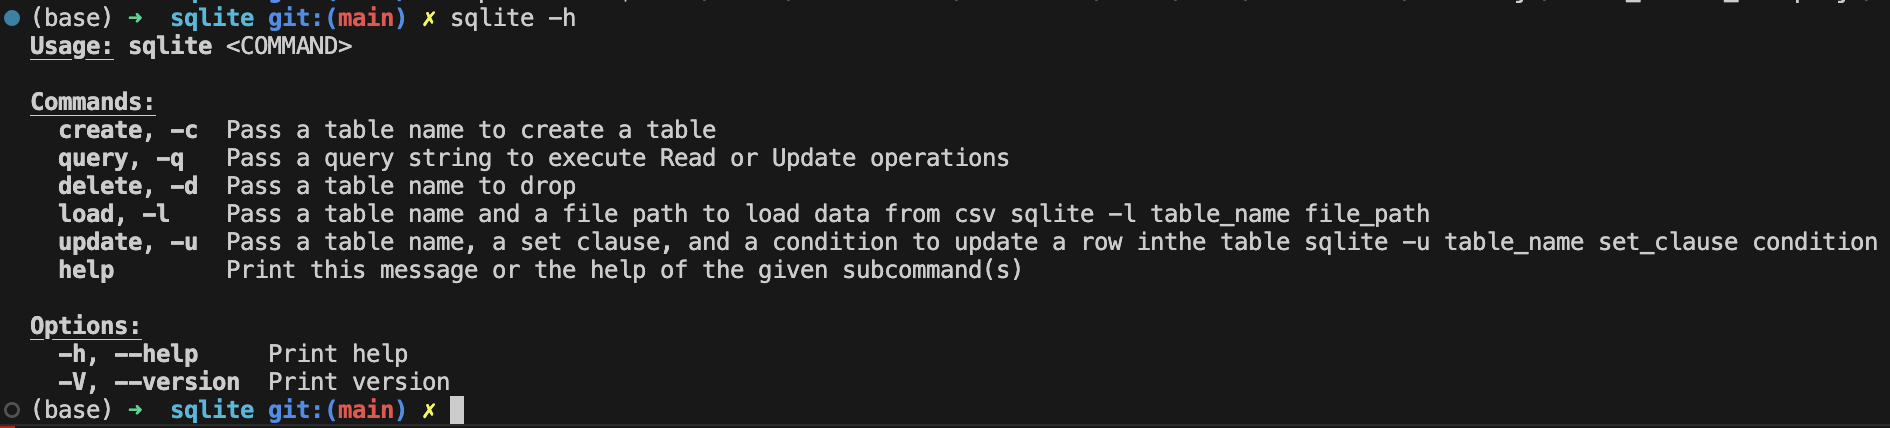
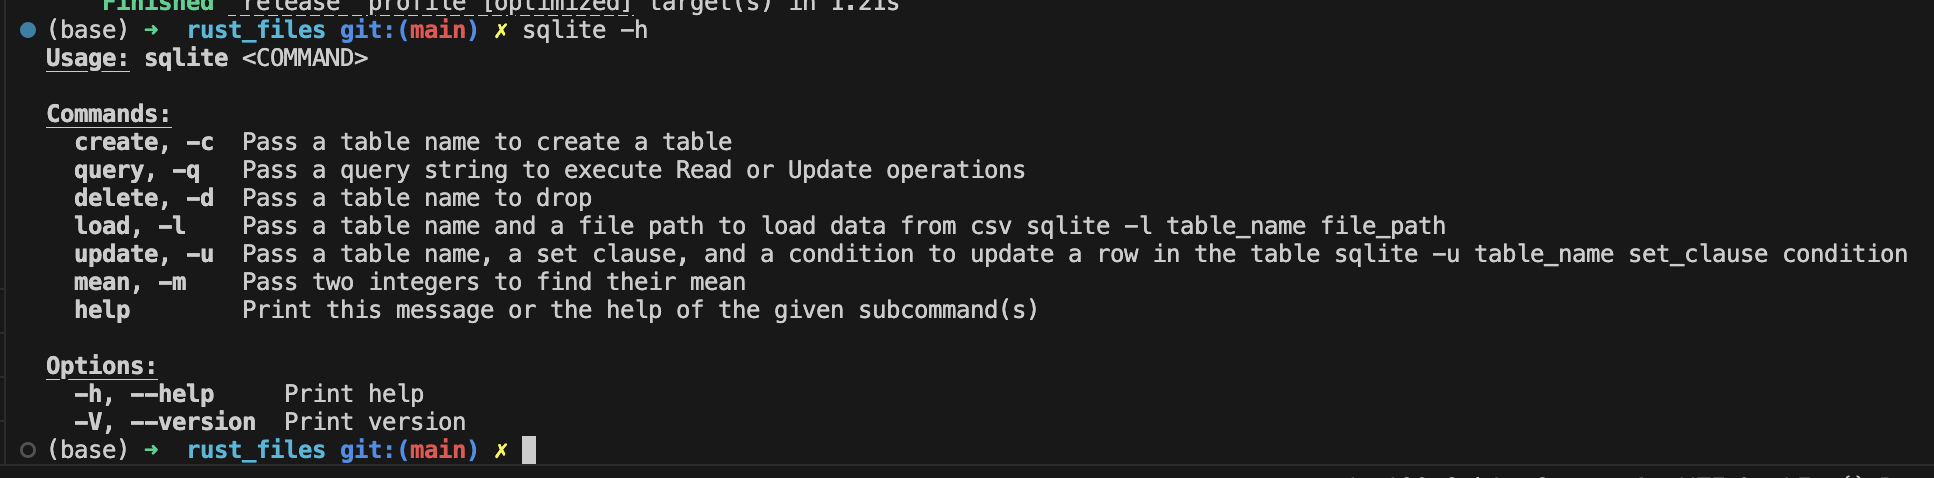
finalizing readme

Changed region(s): [[0.0, 0.2126, 0.9989, 0.6682], [0.0, 0.729, 0.281, 1.0], [0.0, 0.0, 0.4683, 0.1519]]

diff --git a/main.py b/main.py
@@ -2,7 +2,6 @@
 """
 ETL-Query script
 """
-import time
 from python_files.extract import extract_data
 from python_files.transform import transform
 from python_files.query import create, read, update, delete, query_1, query_2
@@ -19,49 +18,26 @@ payload = (2025, 15.00, 18.00, 20.00, 30.00, 50.00)
 
 # Extract
 print("Extracting data...")
-start_time = time.time()
 extract_data(url, path, folder)
-end_time = time.time()
-print(f"Extraction took {end_time - start_time:.2f} seconds.\n")
 
 # Transform and load/create
 print("Transforming data...")
-start_time = time.time()
 transform(path)
-end_time = time.time()
-print(f"Transformation took {end_time - start_time:.2f} seconds.\n")
-
 
 # CREATE
-start_time = time.time()
 create(payload, database, table)
-end_time = time.time()
-print(f"CREATE took {end_time - start_time:.2f} seconds.\n")
 
 # READ
-start_time = time.time()
 read(database, table)
-end_time = time.time()
-print(f"READ took {end_time - start_time:.2f} seconds.\n")
 
 # UPDATE
-start_time = time.time()
 update(database, table, "year", 2026, 2022)
-end_time = time.time()
-print(f"UPDATE took {end_time - start_time:.2f} seconds.\n")
 
 # DELETE
-start_time = time.time()
 delete(database, table, 2021)
-end_time = time.time()
-print(f"DELETE took {end_time - start_time:.2f} seconds.\n")
-
 
 # Query
-start_time = time.time()
 print("First query...")
 print(query_1())
 print("Second query...")
 print(query_2())
-end_time = time.time()
-print(f"QUERIES took {end_time - start_time:.2f} seconds.\n")

diff --git a/python_files/summary_stats.py b/python_files/summary_stats.py
@@ -12,6 +12,7 @@ def get_mean(x):
 x = [i for i in range(1, 1_000_000)]
 
 start = time.time()
-get_mean(x)
+mean = get_mean(x)
 end = time.time()
+print(f"The mean is: {mean}")
 print(f"Time taken for mean calculation: {10**6*(end - start)} microseconds")

diff --git a/README.md b/README.md
@@ -4,17 +4,30 @@
 
 # Individual Project 2/Mini Project 8: Rewriting a CRUD Operations Python Script in Rust
 ---
-##### The purpose of this project is to take an existing python project, convert it to Rust, and compare the speed and efficiency of both scripts. This projects demonstrates how to perform CRUD operations in both Rust and Python, using a CLI (Command Line Integration) Tool. As usual, the folder structure and project walkthrough are below - however, I've decided to show my analysis results at the top of the readme for convenience, and directions for setup and use of the CLI tools are below.  
+###### The purpose of this project is to take an existing python project, convert it to Rust, and compare the speed and efficiency of both scripts. This projects demonstrates how to perform CRUD operations in both Rust and Python, using a CLI (Command Line Integration) Tool. As usual, the folder structure and project walkthrough are below - however, I've decided to show my analysis results at the top of the readme for convenience, and directions for setup and use of the CLI tools are below.  
 ---
 ### Use of Codeium LLM for project assistance
-Use of LLM: In your README, explain how you utilized an LLM in your coding process.
+###### To help me complete the project, I utilized Codeium - which functions similar to GitHub Copilot. I found that I was lacking domain knowledge about Rust syntax, but could get a broad understanding of how the functions and project layout were structured from reading the project template. To help understand specifics, I input code segments and errors into Codeium, and asked it to explain the details to me. While I did use it to debug my code, I actually came to appreciate the way Rust structures the error messages. Any error messages that popped up explicitly stated what the problem was and how to resolve it - I found this to be a really helpful and interesting feature. I also asked it to generate tests that differed in complexity, in order to gain a better understanding of how to write the lib test functions. 
 ---
 ### Demo Video Link:
-Video Demo: A YouTube link in README.md showing a clear, concise walkthrough and demonstration of your CLI binary.
-___
-### Rust vs Python - which is faster?
 
 ___
+### Rust vs Python - which is faster?
+###### In addition to rewriting the python script, this project also provides a comparison of Rust and Python's speed and resource usage advantages and disadvantages. Rust is a compiled (or binary deployement) language, meaning that the code compiles into a single executable file. This method is faster and more efficient for users, but has limited flexibility, as binaries are platform-specific. 
+
+###### In comparison, python is slower, but more user friendly. Packaging deployment is common in Python, and involves distributing code as packages. These packages require an interpreter (Python) to run. Unlike Rust, this method is not platform-specific, but is much slower for a couple of reasons, including having to manage more dependencies.
+
+###### To see a direct comparison of the speeds of python and Rust, I wrote functions to sum and calculate the mean of a range of numbers 1-1000000, in both languages. Here are the results:
+
+##### **Python Mean**
+![alt text](readme_screenshots/python_mean.png)
+
+##### **Rust Mean**
+![alt text](readme_screenshots/rust_mean.png)
+
+###### We can see that calculating the mean in python took approximately 21442 microseconds, while Rust took 1800 microseconds. The Rust calculations were almost 12 times faster than the python calculations. I ran it a couple of times to be sure that these were reliable values, and found that the speed of the python script ranged between 18,000-22,000 microseconds, while Rust ranged from around 1800-2500 microseconds. 
+---
+---
 ### Structure for this Project
 ---
 - .devcontainer
@@ -29,7 +42,9 @@ ___
 - python_files
     - extract.py
     - query.py
+    - summary_stats.py
     - transform.py
+- readme_screenshots (.png files used in readme)
 - rust_files
     - src
         - lib.rs
@@ -38,14 +53,16 @@ ___
     - Cargo.toml
     - Makefile
     - my_database.db
+- test_python_files
+    - test_extract.py
+    - test_query.py
+    - test_transform.py
 - main.py
 - Makefile
 - my_database.db
-- query_log.md
 - README
 - requirements.txt
-- test_main.py
-- readme_screenshots folder
+
 ---
 ### How to Install Rust CLI Dependencies
 ---
@@ -58,7 +75,7 @@ ___
 ##### After running these commands, they will appear in the Cargo.toml file. 
 ---
 ### Workflow Structure
-##### Each time a change is made to the code, it will need to be saved and compiled, inorder for the program to update itself. This can be done by running:
+##### Each time a change is made to the code, it will need to be saved and compiled, in order for the program to update itself. This can be done by running:
 - [x] Cargo check
 - [x] Cargo build
 - [x] Cargo build --release
@@ -79,8 +96,14 @@ ___
 ##### After running that command in the terminal, the flags can now be used. By running the help command, a list of available functions/flags will appear in the terminal, as shown in the image above. These flags allow the user to complete standard CRUD operations from the terminal, so long as the data/schema are updated accordingly.
 ---
 ### The Data and Goal for this Example
-#####    The data being used in this example is a free kaggle dataset containing information about the average hourly wage for different levels of education, and then separated by demographics. For simplicity, this project simply compares the overall average wage of different education levels, over a period of roughly 50 years.
-#####   The Create function makes a connection to a local database (my_database.db), and generates a table, with a name that the user inputs with the -c flag. Similarly, using the -d flag will delete the table from the database. To load data into the table, the -l flag is used, along with two parameters: the table name used for -c, and the relative file path. Finally, the update function is called with -u, and provides a way to update specific values of the wages, based on the year given. The update function can be adjusted or expanded based on the user's needs.
+###### The data being used in this example is a free kaggle dataset containing information about the average hourly wage for different levels of education, and then separated by demographics. For simplicity, this project simply compares the overall average wage of different education levels, over a period of roughly 50 years.
+
+###### The Create function makes a connection to a local database (my_database.db), and generates a table, with a name that the user inputs with the -c flag. Similarly, using the -d flag will delete the table from the database. To load data into the table, the -l flag is used, along with two parameters: the table name used for -c, and the relative file path. Finally, the update function is called with -u, and provides a way to update specific values of the wages, based on the year given. The update function can be adjusted or expanded based on the user's needs.
+
+###### Added into the flags is -m, for calculating the mean of two integers. It can be used by typing <your_project_name> -m <integer_1> <integer_2> into the terminal. A sample command would look like this:
+
+<sqlite -m 3 600>
+
 #### **CREATE**
 ![alt text](readme_screenshots/create_image.png)
 
